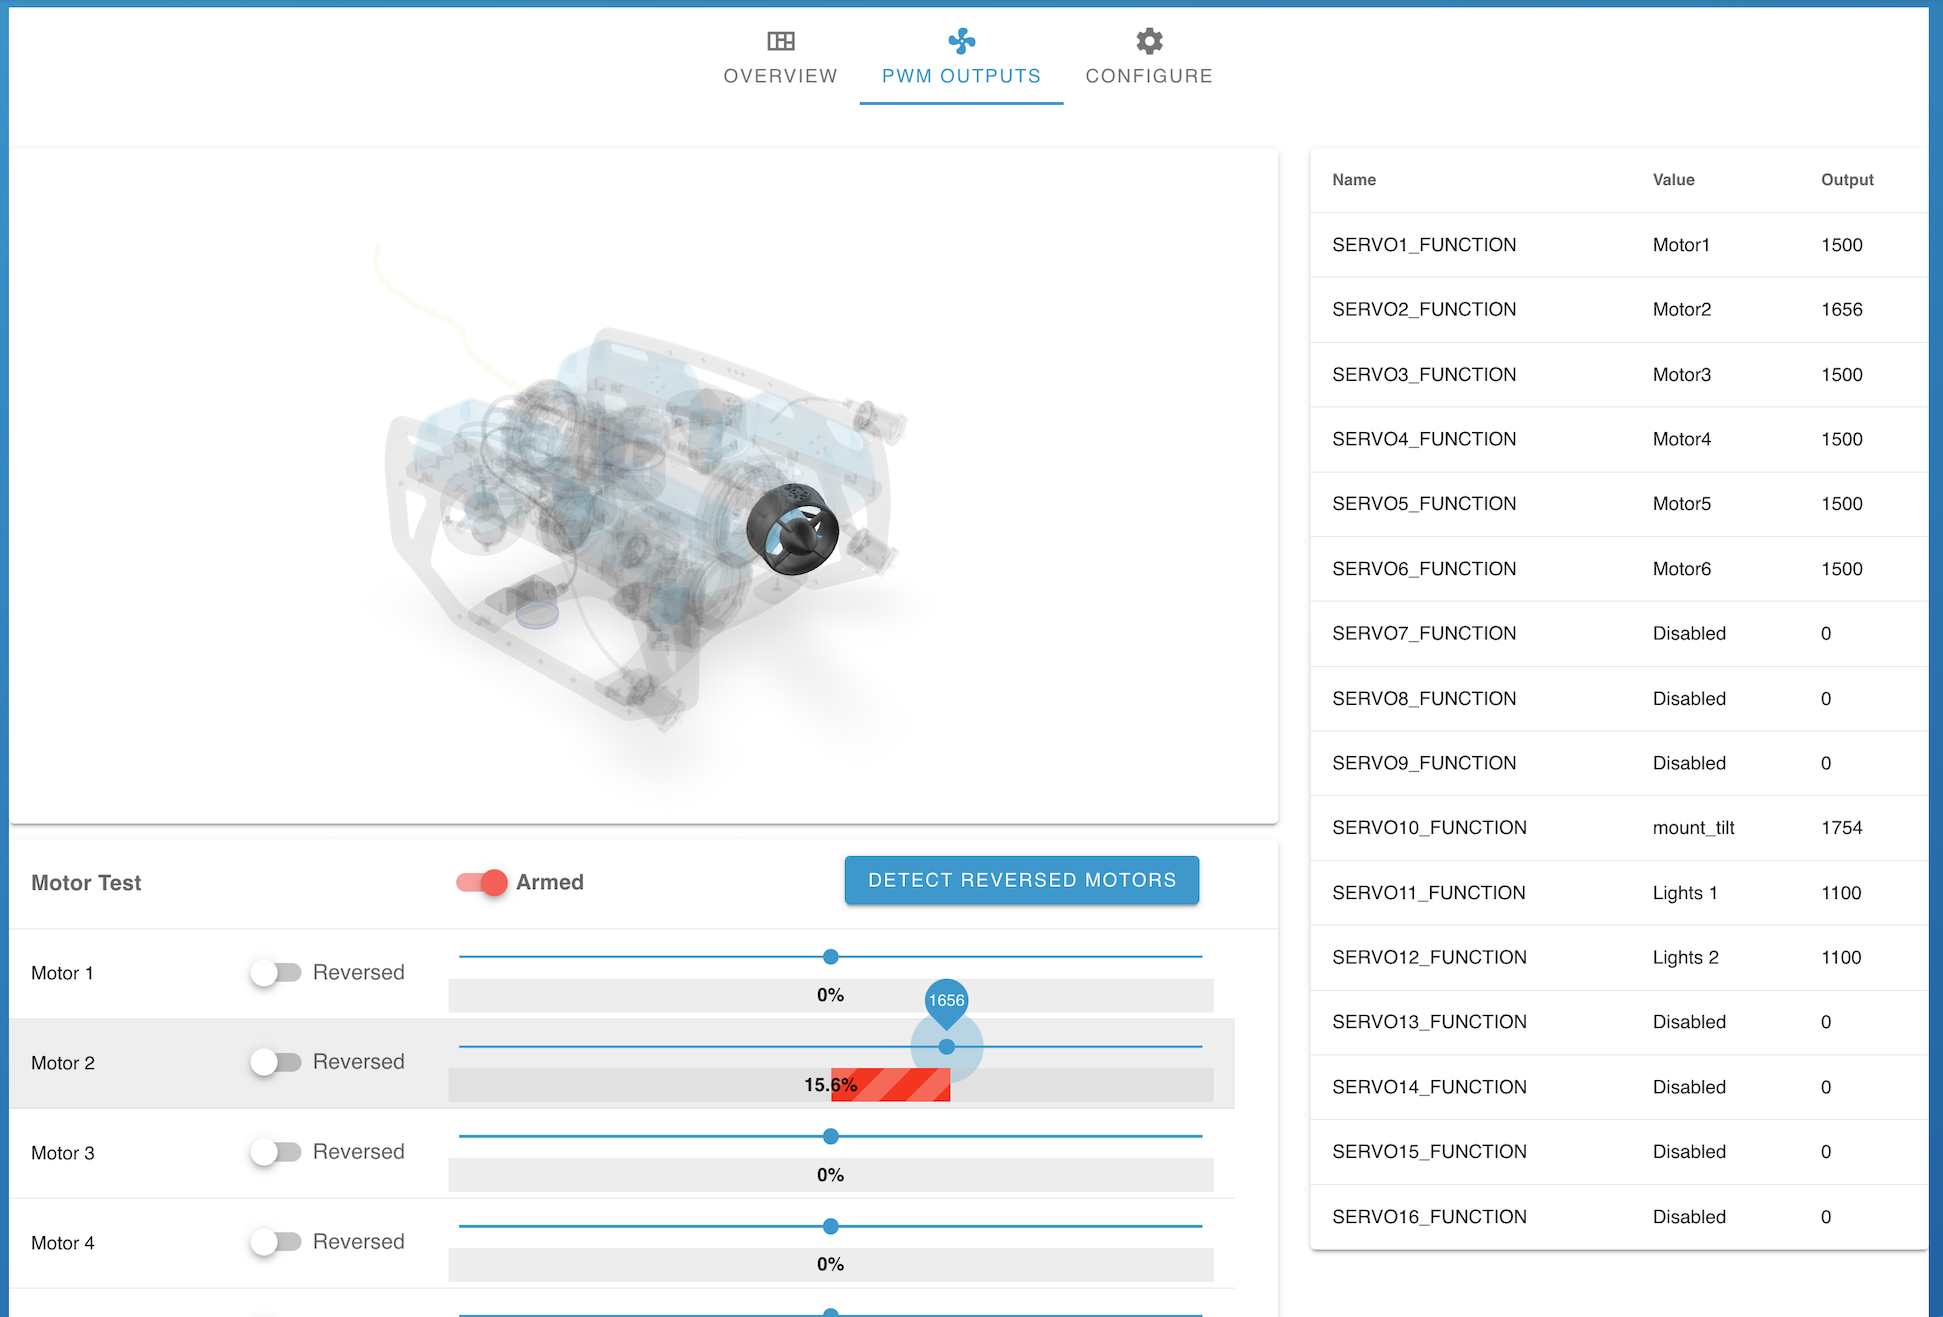
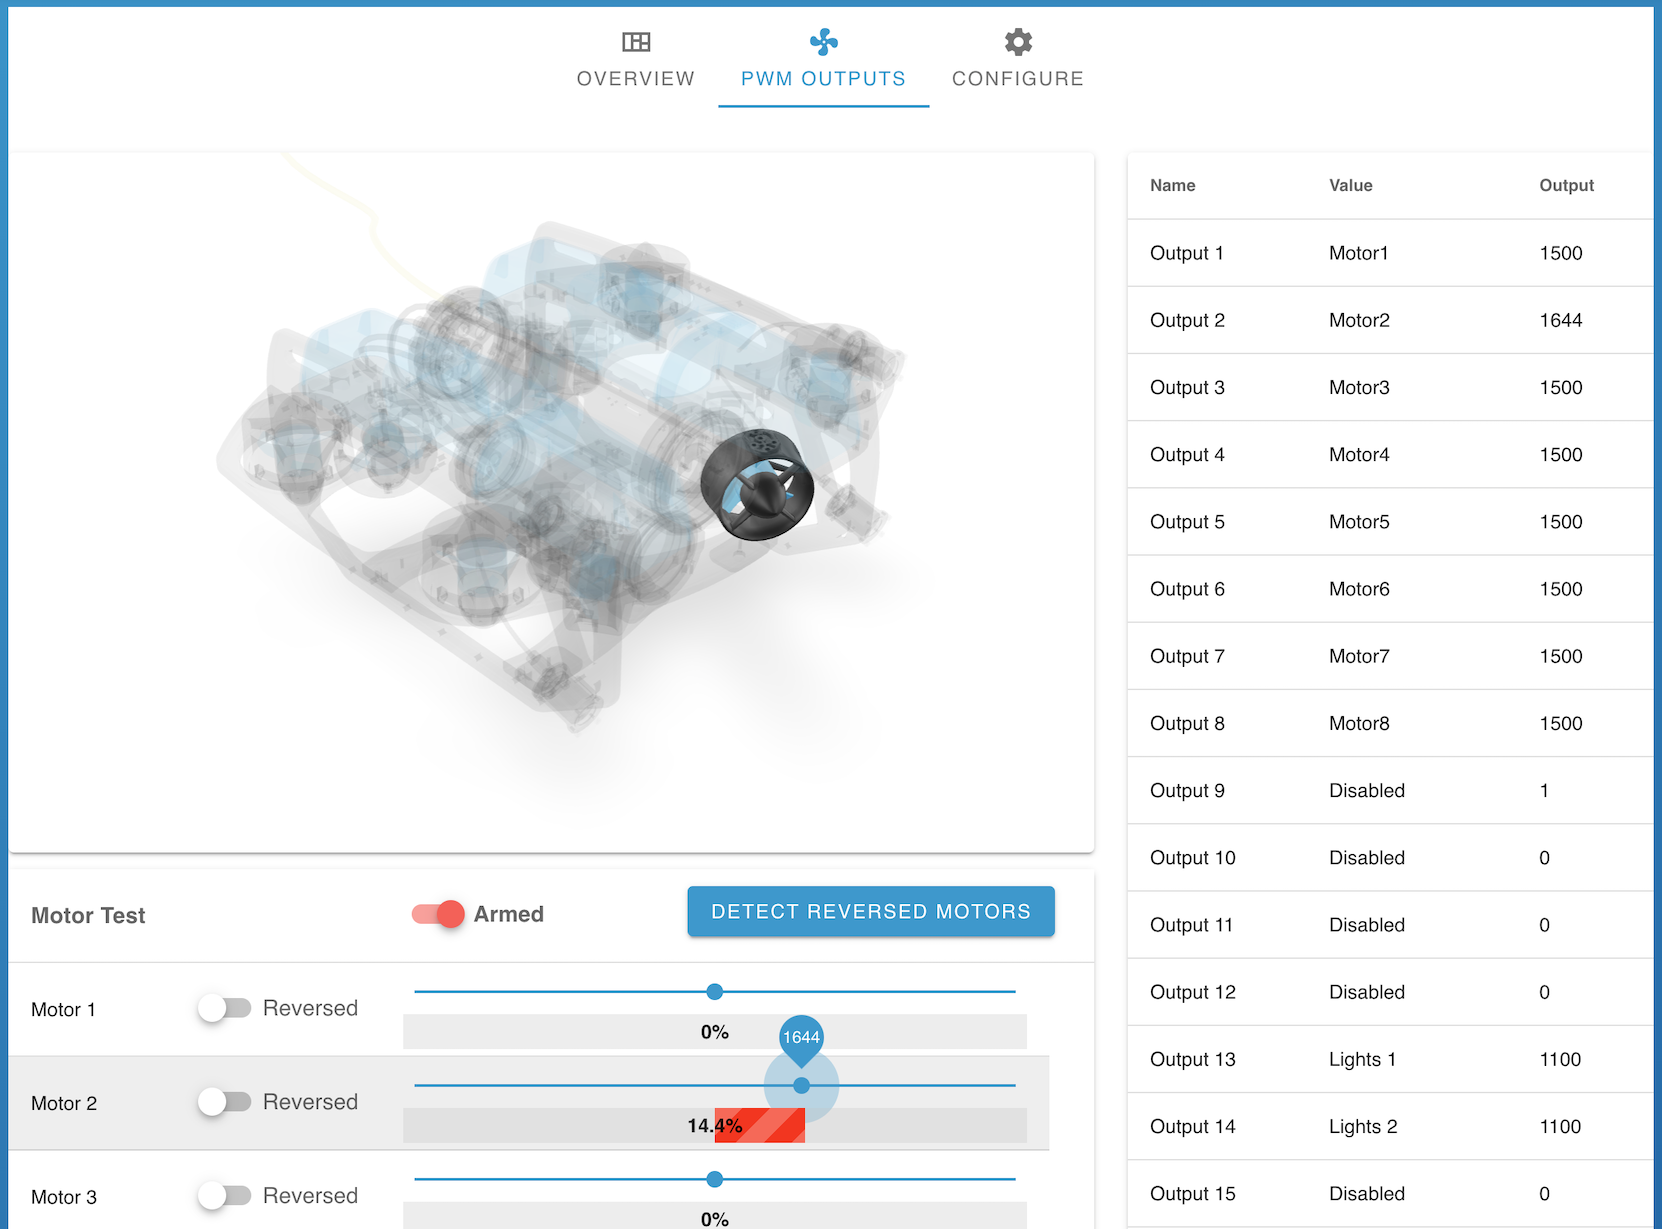
content: usage: advanced: vehicle-setup: update PWM Outputs

diff --git a/content/usage/advanced/index.md b/content/usage/advanced/index.md
@@ -609,7 +609,15 @@ The PWM Outputs tab allows configuring the servo function mappings
 and an automated check to detect motors that spin backwards. Relevant motors can be
 set to run on reversed control signals, so they spin in the expected direction.
 
+Hovering over a motor or output function will attempt to highlight the related component
+in the 3D model.
+
 {{ easy_image(src="vehicle-setup-pwm-outputs", width=600) }}
+
+Clicking on an output in the right side table allows changing its assigned function,
+and configuring its PWM limits and trim value `(New in 1.4)`:
+
+{{ easy_image(src="vehicle-setup-pwm-function", width=450) }}
 
 The Configure tab provides configuration and calibration options for the vehicle sensors and peripherals,
 including failsafes, and reverting parameters to their defaults.
